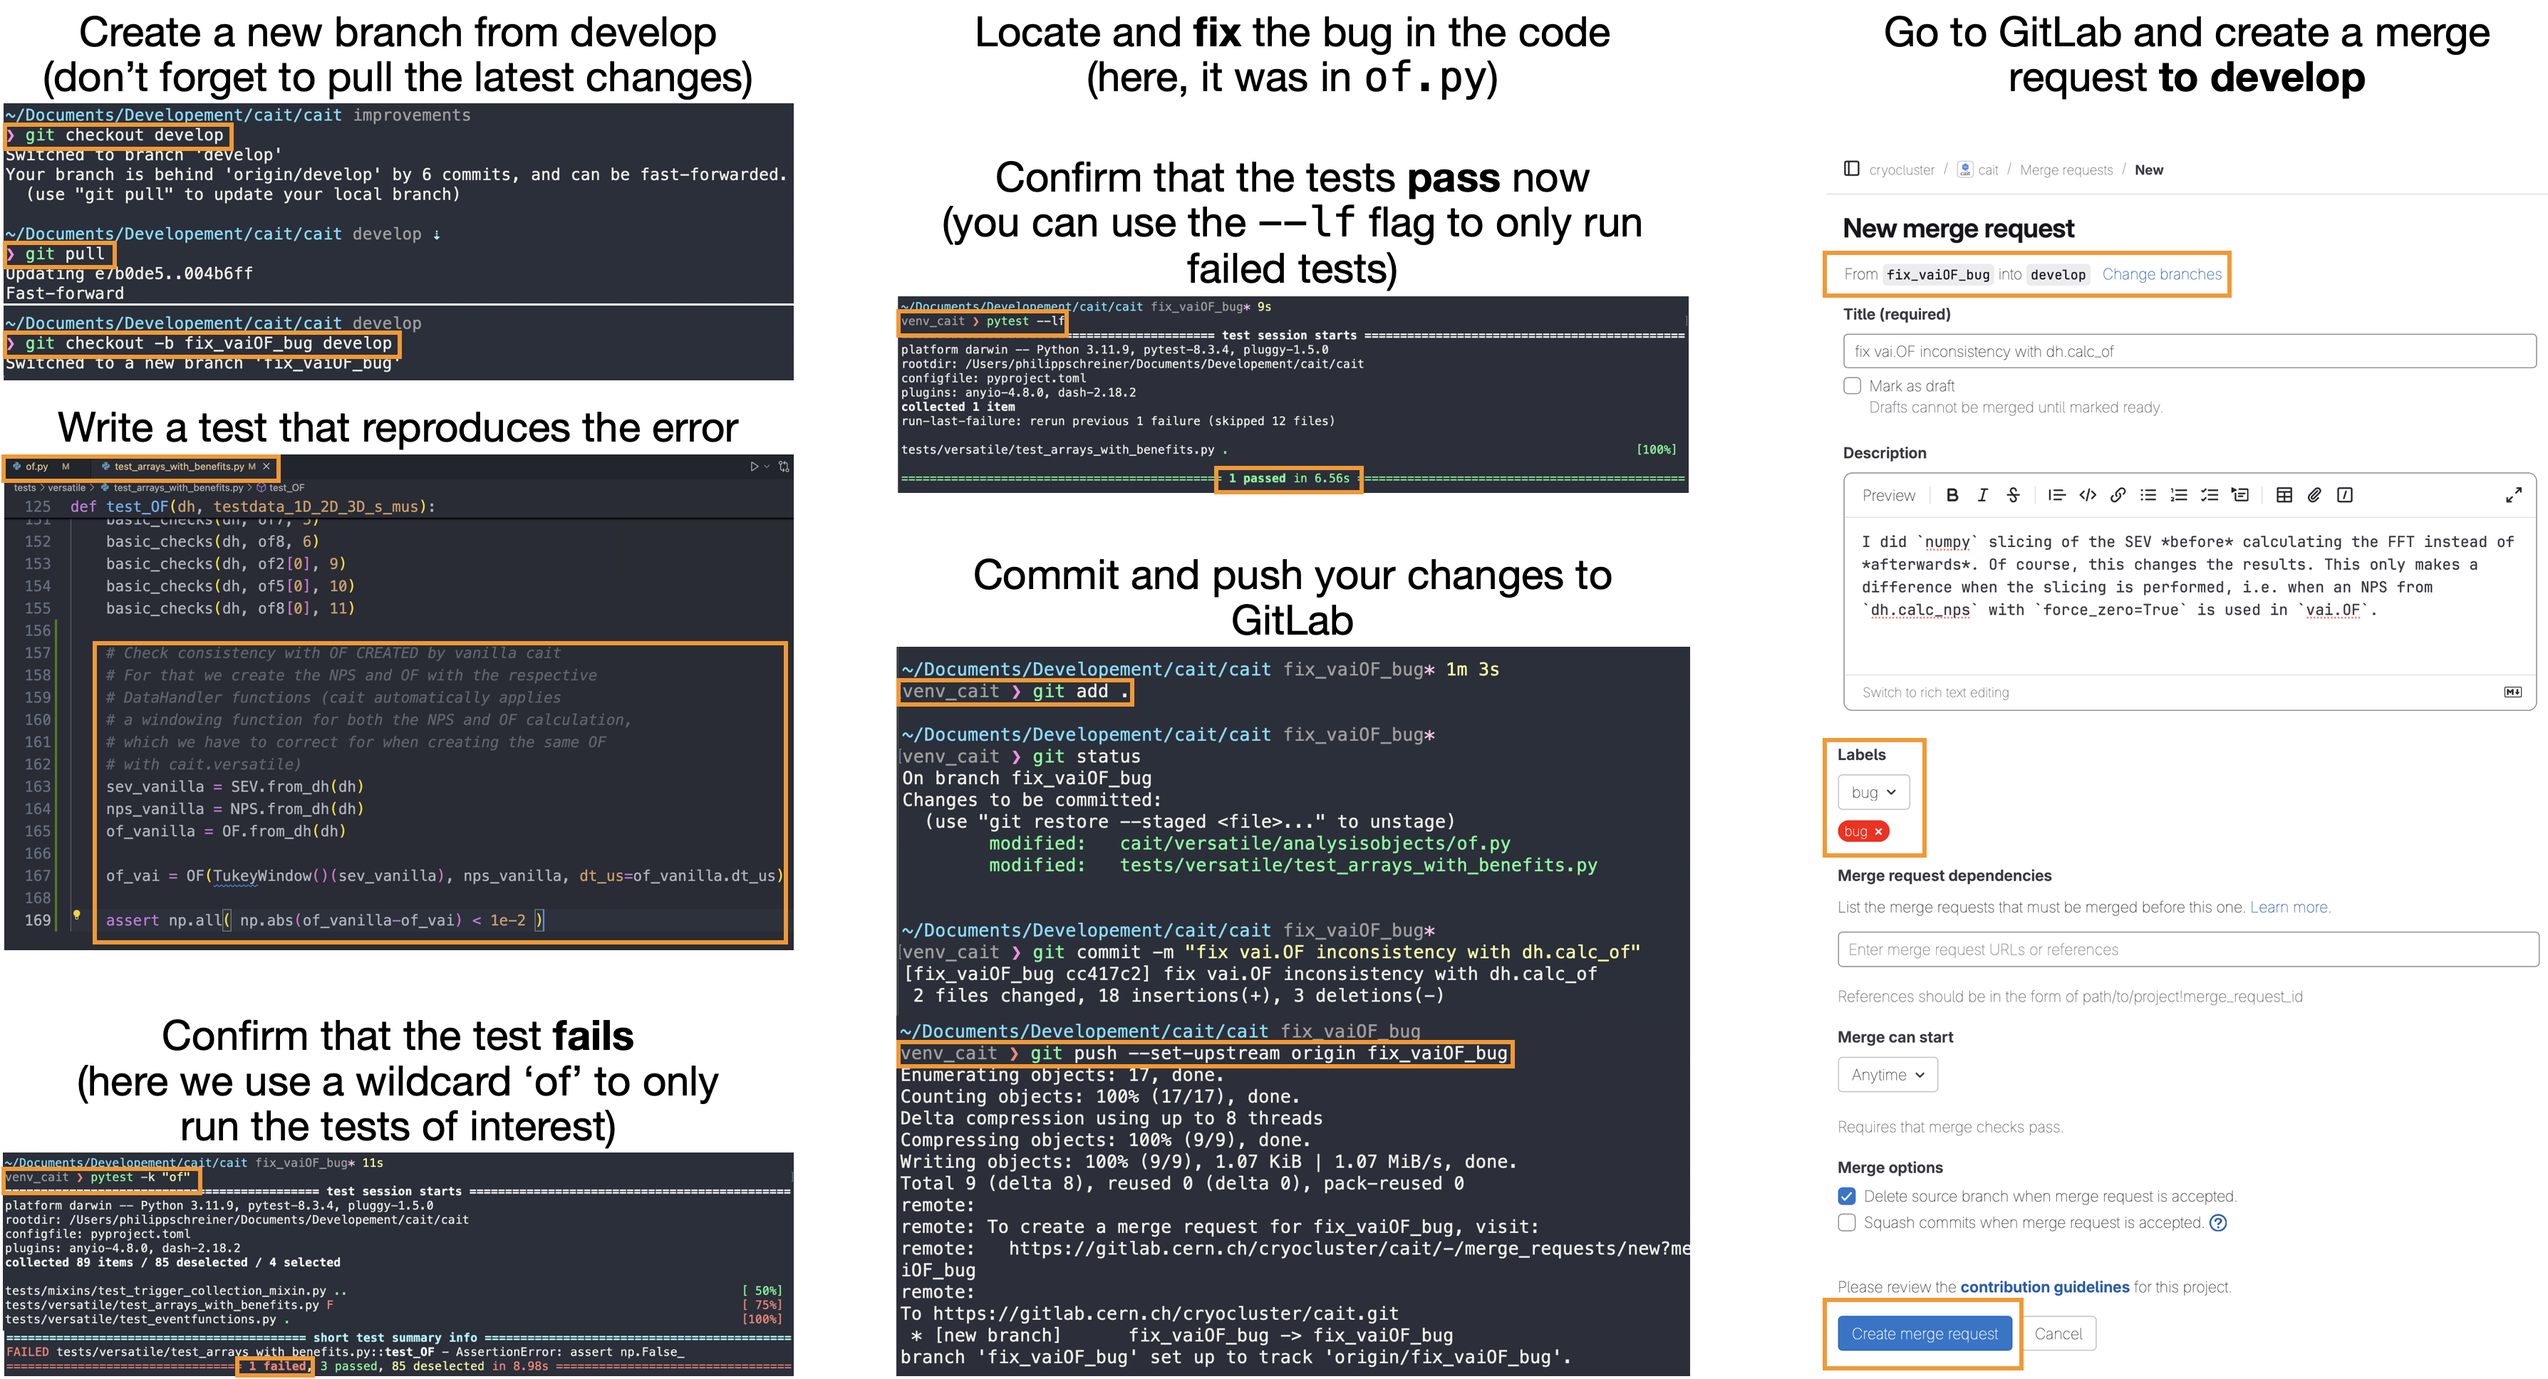
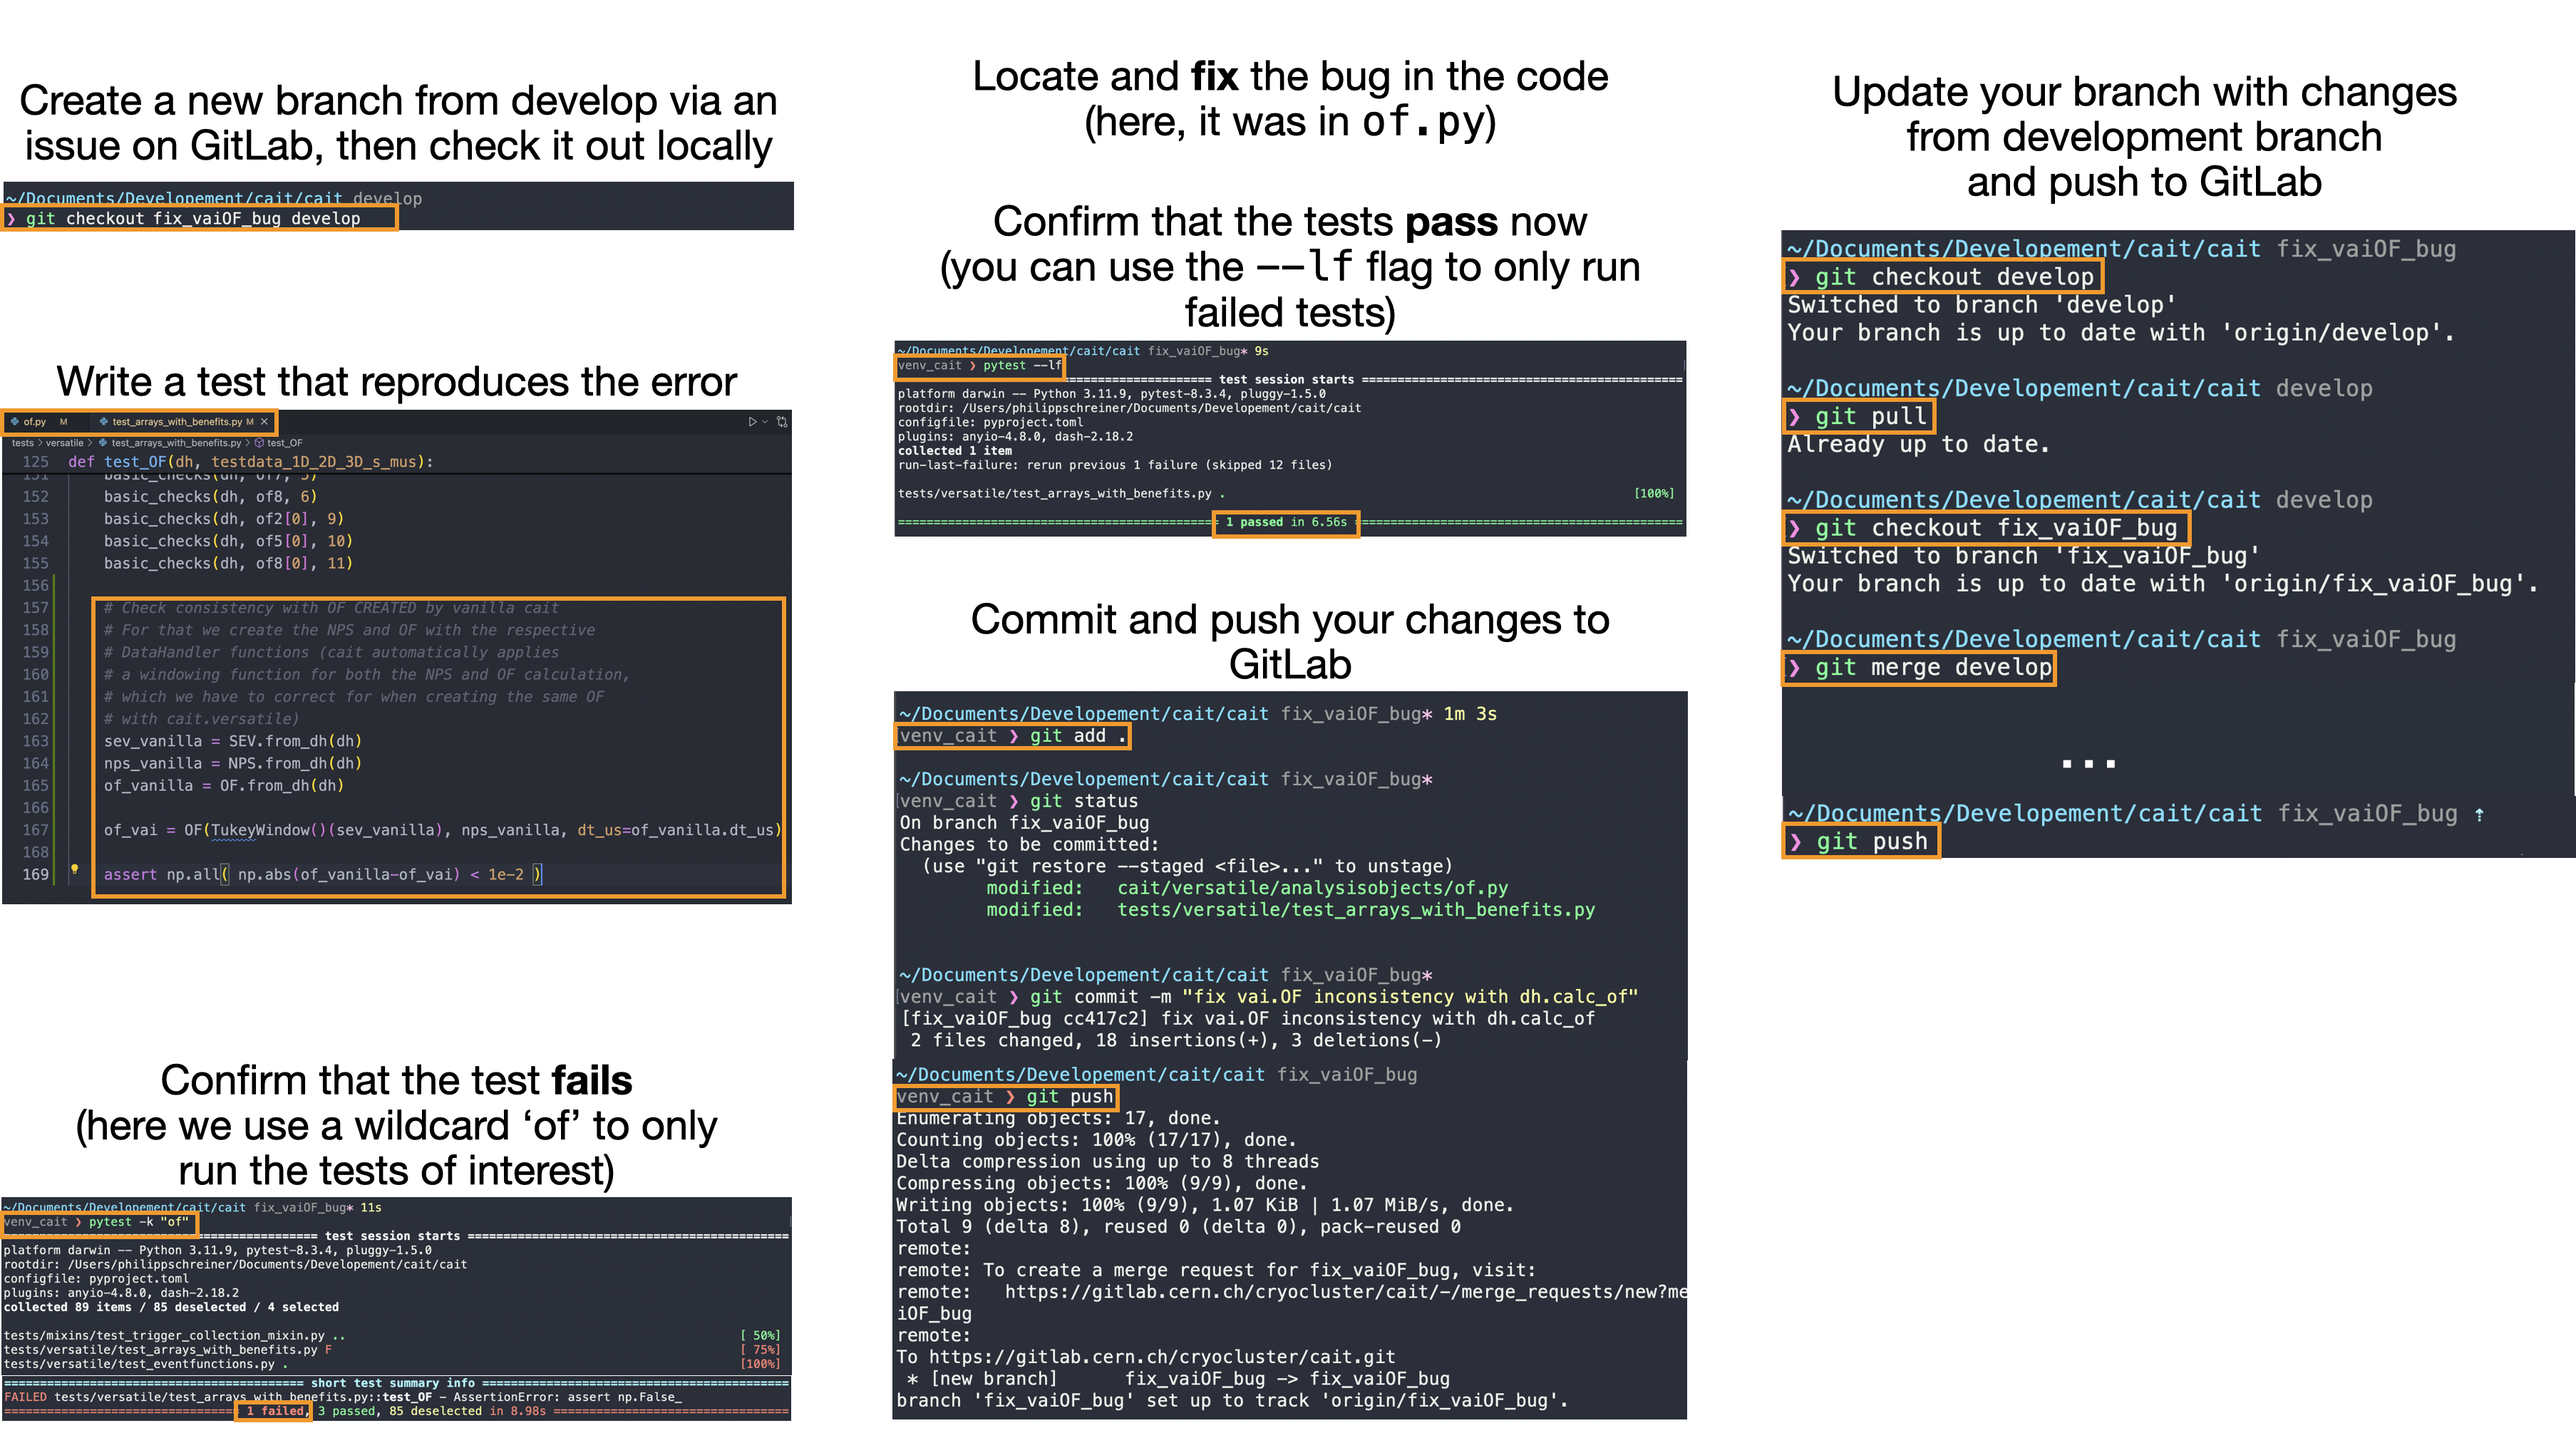
Resolve "Update developer guide docs"

diff --git a/docs/source/contributing.rst b/docs/source/contributing.rst
@@ -70,14 +70,17 @@ You now have everything installed that you will need (including ``jupyterlab`` t
     $ source venv_cait/bin/activate
     $ jupyter-lab
 
-You are currently still on the 'main' branch of the ``cait`` repository that we cloned. When creating new features, you want to do this on a separate *feature branch* which is created *from the develop branch*. You can create such a branch either on *GitLab* (``cryocluster/cait/Branches``, **New branch**, **create from develop** and choose branch name 'my_new_feature'), then use 
+You are currently still on the 'main' branch of the ``cait`` repository that we cloned. When creating new features, you want to do this on a separate *feature branch* which is created *from the develop branch*. The same procedure applies for fixing bugs. To better track the work done on ``cait`` by multiple people, such a branch (either for a new feature or a bug fix) has to be created via an **issue** on *GitLab*. Here is an overview of the steps involved. Below, we also illustrate it with screenshots.
 
-.. code:: console 
+    - Go to **cait>Issues>New Issue**, choose a descriptive title and description, add applicable labels (which describe the thing you want to do), and a milestone (if applicable). Milestones mark goals of new ``cait`` releases, e.g. ``v1.3.0``. If you anticipate your feature/bug fix to be part of such a release, add it in the issue (can also be done afterwards). Click **Create issue**.
+    - On the next page, you want to create a dedicated branch and merge request for this issue. Note that nothing will be merged yet, this is just a formality for later. Click the **dropdown** of **Create merge request** and choose **develop** as the source branch. Hit **Create merge request**.
+    - On the **New merge request** page you can keep the default fields (all information should be already spelled out in the previously created issue which is mentioned in the description automatically). Click **Create merge request**.
+    - Now go to your local ``cait`` repository and checkout your new branch (you can find the name in the merge request, it starts with the issue number). In our case, we use ``git checkout 174-update-developer-guide-docs``.
+    - You are now all set up to start implementing changes. Please refer to the coming sections for a 'how-to' and 'best-practice'.
+    - After you are done making changes, use ``git add .`` and ``git commit -m 'some commit message'``, then ``git push`` to push your changes to the *GitLab* repository. It will show up on the issue and merge request pages that you created before.
+    - Finally, if your feature is fully implemented (or the bug fully fixed), you want to pull from the **develop** branch and locally merge any changes into your feature/issue branch as described in `Merge request`_. Afterwards, the maintainers of ``cait`` will take care of including your code into an upcoming version of ``cait``. Thank you for contributing! :)
 
-    $ git pull
-    $ git checkout my_new_feature
-
-or create the branch locally using ``git checkout -b my_new_feature develop``. In either case, you will end up with a branch that you can play around on. If you made changes, use ``git add .`` and ``git commit -m 'some commit message'``, then ``git push`` to push your changes to the *GitLab* repository.
+.. image:: documentation/pics/issue_guide.png
 
 .. note::
     Since we installed ``cait`` using the editable ``-e`` flag, its behavior changes when changing branches. *However*, every time you change branch or make a change to the repository, these changes will only be reflected if you *restart* your python session (or just the kernel if you work in a Jupyter notebook).
@@ -402,9 +405,9 @@ If some tests failed, and you think you fixed their causes, you can re-run just 
 
 Thank you (in every user's and developer's name) for writing tests!
 
-Opening merge request
----------------------
-If all tests pass, your feature is ready to go and you can create a request for merging your feature branch into the develop branch. Before you do that, you should pull the latest changes of the 'develop' branch and locally merge them into your feature branch (resolving any potential conflicts). Afterwards, you push to *GitLab* a last time.
+Merge request
+-------------
+If all tests pass, your feature is ready to go. Before it can be merged back into the 'develop' branch, however, you should pull the latest changes of the 'develop' branch (which might have received new changes in the meantime) and locally merge them into your feature branch (resolving any potential conflicts). Afterwards, you push to *GitLab* a last time.
 
 .. code:: console
 
@@ -414,15 +417,14 @@ If all tests pass, your feature is ready to go and you can create a request for 
     $ git merge develop
     $ git push
 
-Then you go to ``cryocluster/cait/Merge requests`` on *GitLab* and click **New merge request**. Select your feature branch (in our case it was called 'my_new_feature') as the source and 'develop' as the target, then click **Compare branches and continue**. Write a description of what the feature is about and check 'delete source branch after merge' if it was just a feature branch that is not needed anymore afterwards. 
-
-After creating the merge request, all tests will run again for multiple Python versions. If they pass, the main developers of ``cait`` will accept the merge request (if you had the required permissions to do it yourself, you would probably not be reading this guide).
+Then you go to your previously created merge request on *GitLab* where your commit shows up in the timeline.  
+All tests will run again for multiple Python versions. If they pass, the main developers of ``cait`` will accept the merge request (if you had the required permissions to do it yourself, you would probably not be reading this guide).
 
 Congratulations! Your feature is now on the develop branch and will be included in the next released version of ``cait``! Thank you so much for contributing :)
 
 Fixing bug getting started
 ~~~~~~~~~~~~~~~~~~~~~~~~~~
-If you come across a bug in ``cait``, it would be fantastic if you tried to fix it yourself. For that, you would go to your (local) ``cait`` repository, pull the latest changes from the develop branch, and create a new branch **from develop** (give it a name that is connected to the bug). On this branch, the best course of actions is to go to the ``cait/tests/`` folder and write a **test that reproduces** the bug/error you want to fix **before** attempting to **fix** it (see also `Implementing test case and running tests`_). Run the test to confirm that it indeed *fails*. Afterwards, go to the main ``cait/cait/`` folder, locate and fix the bug. Run the tests again to confirm that the (previously failed) test now *passes*. Once it does, commit your changes and push them to GitLab. Go to the ``cait`` GitLab repository and open a merge request from your bug fix branch to the **develop** (!) branch. We will review your changes and accept the request if everything is okay. 
+If you come across a bug in ``cait``, it would be fantastic if you tried to fix it yourself. For that, you would go to the ``cait`` *GitLab* repository and create an issue/branch/merge request (as already explained in `Setting up your working environment and git usage`_). On the newly created (issue) branch, the best course of actions is to go to the ``cait/tests/`` folder and write a **test that reproduces** the bug/error you want to fix **before** attempting to **fix** it (see also `Implementing test case and running tests`_). Run the test to confirm that it indeed *fails*. Afterwards, go to the main ``cait/cait/`` folder, locate and fix the bug. Run the tests again to confirm that the (previously failed) test now *passes*. Once it does, commit your changes and push them to GitLab. The commit will show up in your issue of the ``cait`` *GitLab* repository. We will review your changes and accept the request if everything is okay. 
 
 Below, the process is illustrated with some screenshots. Thank you so much for fixing bugs in ``cait``! :)
 
@@ -436,7 +438,7 @@ Tags are created when releasing a new version (see below) and follow the format 
 - ``2`` denotes a minor version or feature release (i.e. increasing it implies the implementation of new features which are downwards-compatible), and 
 - ``3`` denotes a patch or bug fix (i.e. increasing it implies that it is equivalent to the previous version but with some bugs fixed). 
 
-When a release tag is created, it should always come together with a release of the respective version (``1.2.3`` in this example) such that people can install this version using 
+When a release tag is created, it should always come together with a milestone and release of the respective version (``1.2.3`` in this example) such that people can install this version using 
 
 .. code:: console
 
@@ -444,11 +446,11 @@ When a release tag is created, it should always come together with a release of 
 
 from PyPI. 
 
-Furthermore, development versions of ``cait`` are also tagged if there was a noteworthy change. This is important to track which version (specified by the tag) was used for an analysis (for people who use the develop branch for their analysis). The development tags follow the format ``v1.2.3.dev1`` where the first part represents the most current release tag of ``cait``, and the last part denotes the develop version (``0``, ``1``, ...). If a new version is released, we start counting from 0 again, e.g. ``v.1.3.0.dev0``. Note that even though we create tags for development versions, we do not make any development releases. However, we **do update** the ``__version__`` in ``_version.py`` accordingly. If you want to install a specific develop version, use 
+Furthermore, development versions of ``cait`` are also tagged if there was a noteworthy change. This is important to track which version (specified by the tag) was used for an analysis (for people who use the develop branch for their analysis). The development tags follow the format ``v1.3.0.dev1`` where the first part represents the upcoming release tag (resp. milestone) of ``cait``, and the last part denotes the develop version (``1``, ``2``, ...). Note that even though we create tags for development versions, we do not make any development *releases*. However, we **do update** the ``__version__`` in ``_version.py`` accordingly. If you want to install a specific develop version, use 
 
 .. code:: console
 
-    $ python3 -m pip install git+https://gitlab.cern.ch/cryocluster/cait.git@v1.2.3.dev1
+    $ python3 -m pip install git+https://gitlab.cern.ch/cryocluster/cait.git@v1.3.0.dev1
 
 Docs
 ~~~~
